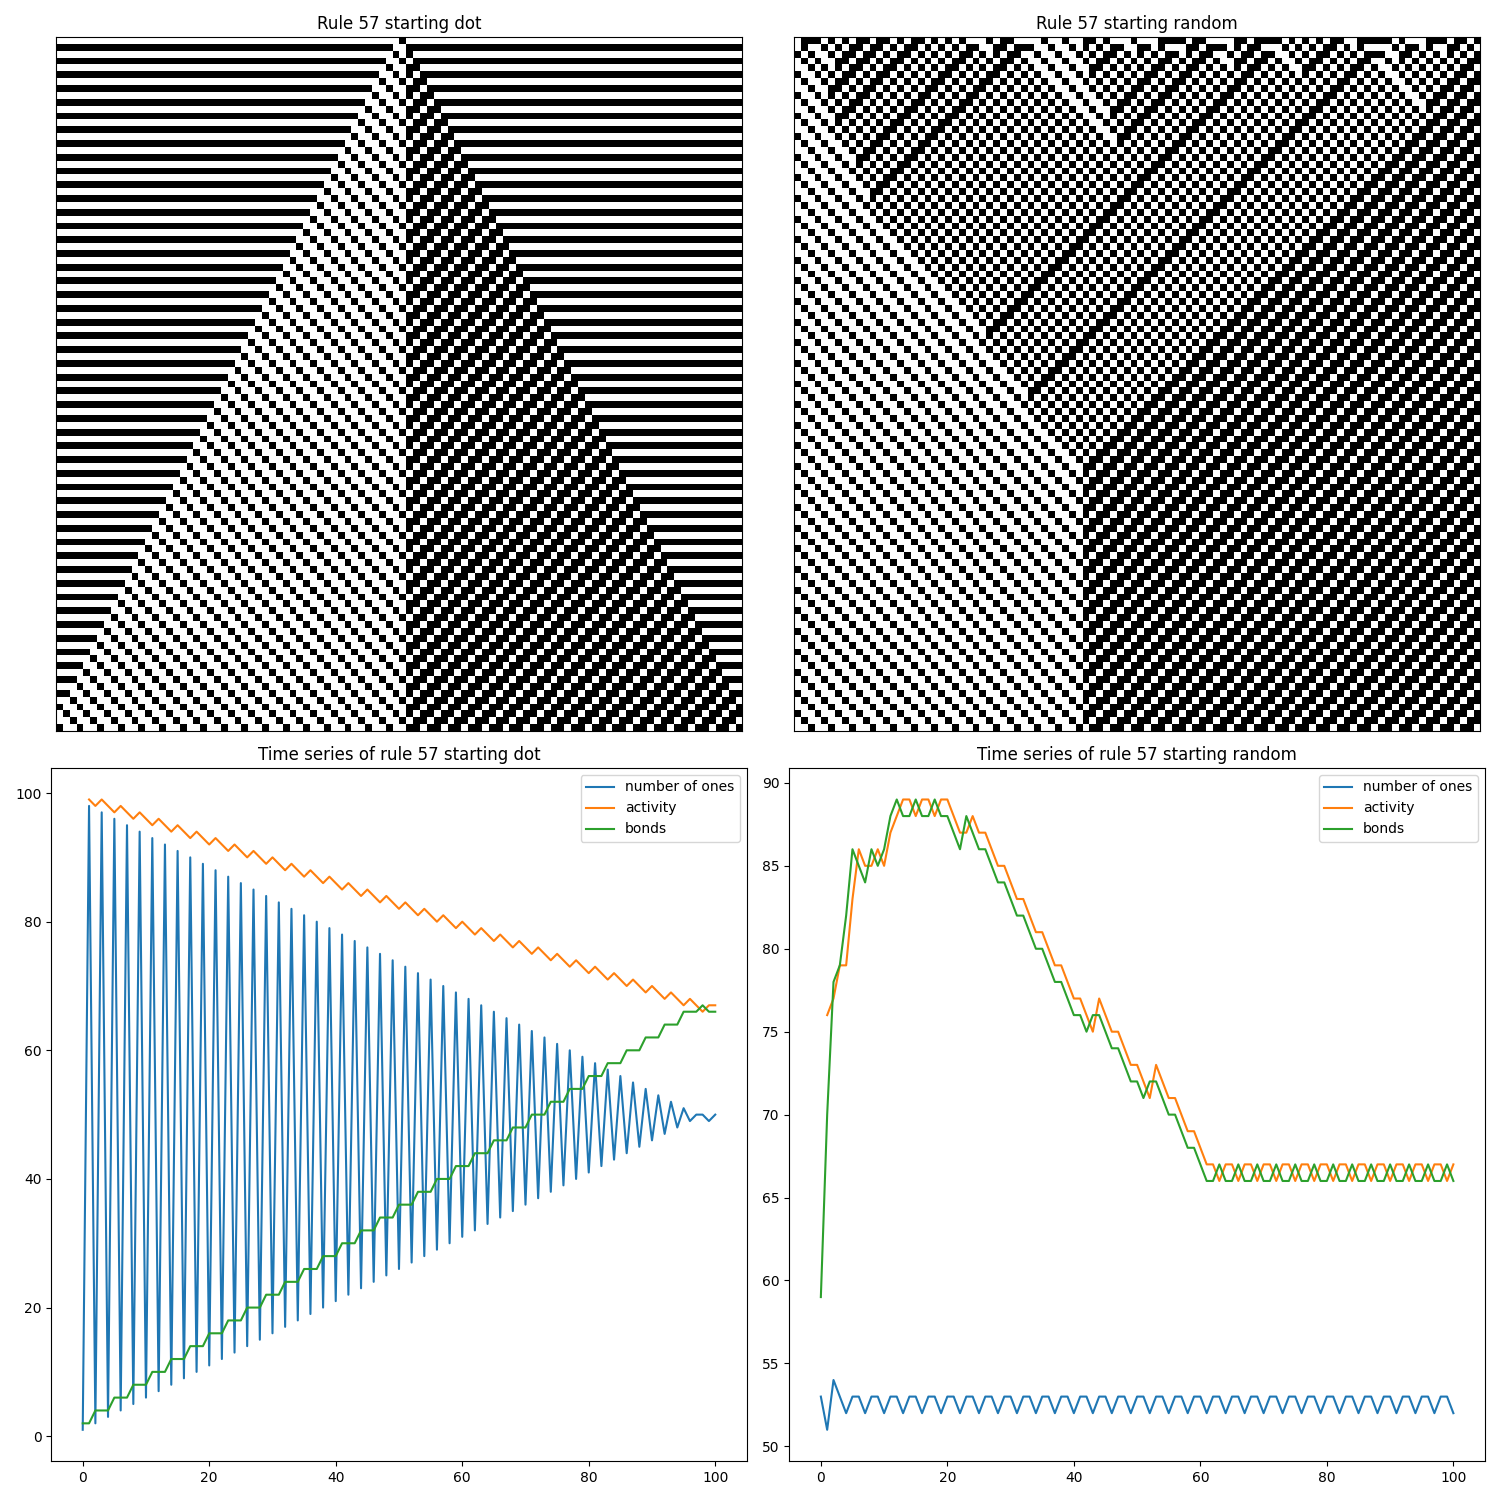
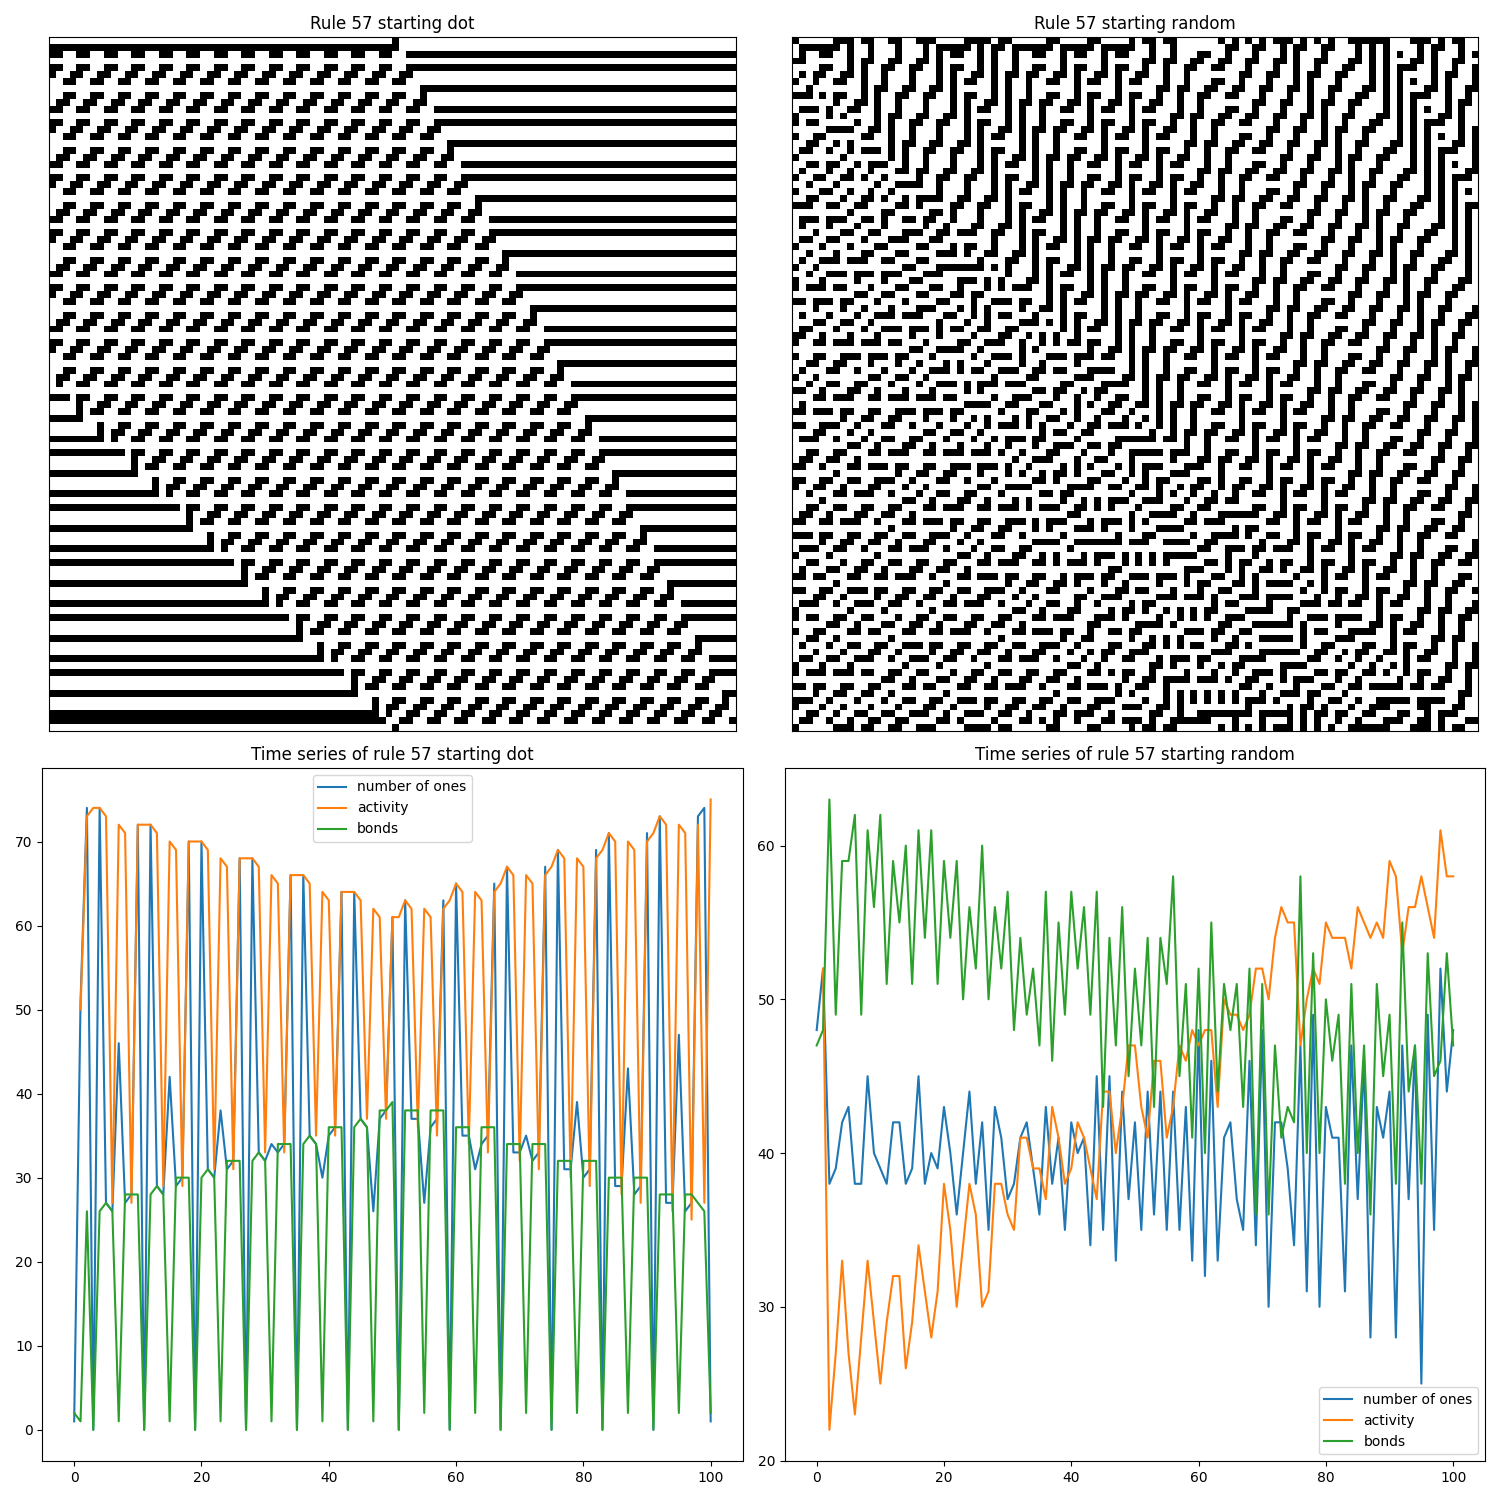
whats going on

diff --git a/projects/agent_based_modelling/assignment_6/main.py b/projects/agent_based_modelling/assignment_6/main.py
@@ -2,37 +2,36 @@ from itertools import product
 from multiprocessing import Pool
 
 from matplotlib import pyplot as plt
-import networkx as nx
 import numpy as np
 
 from projects.agent_based_modelling.assignment_6.model import Model, Params
 from projects.agent_based_modelling.assignment_6.runge_kutta import runge_kutta_4
+from projects.agent_based_modelling.assignment_6.graphs import lattice_with_diagonals
 
 
-GRAPH_SIZES = [100]
-MEAN_DEGREES = [8]
+GRAPH_SIZES = [(10, 10)]
 INITIAL_ADOPTIONS = [0, 8]
 PARAMS = [Params(innovation=innovation, imitation=imitation) for innovation, imitation in product([0, 0.01], [0.25, 0.5])]
 
 REWIRING_PROBABILITIES = [0.3, 0.6, 0.9]
-TIME_TO_STABILISE_RUNS = 10
+TIME_TO_STABILISE_RUNS = 100
 
 
 def plot_evolutions():
-    setups = list(product(PARAMS, INITIAL_ADOPTIONS, GRAPH_SIZES, MEAN_DEGREES))
+    setups = list(product(PARAMS, INITIAL_ADOPTIONS, GRAPH_SIZES))
     fig, axs = plt.subplots(len(setups), 1, figsize=(10, 6*len(setups)), layout="tight")
 
-    for ax, (params, initial_adoptions, graph_size, mean_degree) in zip(axs, setups):
+    for ax, (params, initial_adoptions, (m, n)) in zip(axs, setups):
         for beta in REWIRING_PROBABILITIES:
             ax.plot(
                 Model(
                     params=params,
-                    graph=nx.watts_strogatz_graph(graph_size, mean_degree, beta),
+                    graph=lattice_with_diagonals(m, n, beta),
                     initial_adoptions=initial_adoptions,
                 ).run().adoption_history,
                 label=f"{beta=}",
             )
-            ax.set_title(f"{params=}, {initial_adoptions=}, {graph_size=}, {mean_degree=}")
+            ax.set_title(f"{params=}, {initial_adoptions=}, {m=}, {n=}")
         ax.legend()
         ax.set_ylim(-0.05, 1.05)
         ax.grid()
@@ -40,29 +39,29 @@ def plot_evolutions():
     plt.show()
 
 
-def calculate_steps(args: tuple[Params, int, int, int, float]) -> int:
-    params, initial_adoptions, graph_size, mean_degree, beta = args
+def calculate_steps(args: tuple[Params, int, tuple[int, int], float]) -> int:
+    params, initial_adoptions, (m, n), beta = args
     return Model(
         params=params,
-        graph=nx.watts_strogatz_graph(graph_size, mean_degree, beta),
+        graph=lattice_with_diagonals(m, n, beta),
         initial_adoptions=initial_adoptions,
     ).run().current_step
 
 
 def plot_time_to_stabilise():
-    setups = list(product(PARAMS, INITIAL_ADOPTIONS, GRAPH_SIZES, MEAN_DEGREES))
+    setups = list(product(PARAMS, INITIAL_ADOPTIONS, GRAPH_SIZES))
     fig, ax = plt.subplots(1, 1, figsize=(30, 8), layout="tight")
     with Pool() as pool:
-        for params, initial_adoptions, graph_size, mean_degree in setups:
-            print(f"{params=}, {initial_adoptions=}, {graph_size=}, {mean_degree=}")
+        for params, initial_adoptions, graph_size in setups:
+            print(f"{params=}, {initial_adoptions=}, {graph_size=}")
             beta = np.linspace(0, 1, 100)
             time_to_stabilise = np.array(
                 [
-                    np.array(pool.map(calculate_steps, [(params, initial_adoptions, graph_size, mean_degree, b)] * TIME_TO_STABILISE_RUNS)).mean()
+                    np.array(pool.map(calculate_steps, [(params, initial_adoptions, graph_size, b)] * TIME_TO_STABILISE_RUNS)).mean()
                     for b in beta
                 ]
             )
-            ax.plot(beta, time_to_stabilise, label=f"{params=}, {initial_adoptions=}, {graph_size=}, {mean_degree=}")
+            ax.plot(beta, time_to_stabilise, label=f"{params=}, {initial_adoptions=}, {graph_size=}")
 
     ax.legend(bbox_to_anchor=(1.04, 1), loc="upper left")
     plt.show()
@@ -73,20 +72,35 @@ def compare_graph_and_ode():
         innovation=0.01,
         imitation=0.35,
     )
-    model = Model(
-        params=params,
-        graph=nx.watts_strogatz_graph(100, 8, 0.3),
-        initial_adoptions=0,
-    ).run()
+    simulated_raw = [
+        Model(
+            params=params,
+            graph=lattice_with_diagonals(10, 10, 0.2),
+            initial_adoptions=0,
+        ).run().adoption_history
+        for _ in range(10)
+    ]
+    max_run_length = max(len(run) for run in simulated_raw)
+    simulated = np.array(
+        [
+            np.append(run, np.ones(max_run_length - len(run)))
+            for run in simulated_raw
+        ]
+    ).mean(axis=0)
 
     def ode(_: float, y: float) -> float:
         return (1 - y)*(params.innovation + params.imitation*y)
 
-    x = np.linspace(start=0, stop=30, num=model.current_step)
-    y = runge_kutta_4(ode, 0, x)
+    def exact(_x: np.ndarray, p: float, q: float) -> float:
+        return p*(np.exp((p+q)*_x) - 1)/(p*np.exp((p+q)*_x) + q)
 
-    plt.plot(y)
-    plt.plot(model.adoption_history)
+    x = np.linspace(start=0, stop=50, num=len(simulated))
+    y_rk4 = runge_kutta_4(ode, 0, x)
+    y_exact = exact(x, params.innovation, params.imitation)
+
+    plt.plot(y_rk4)
+    plt.plot(y_exact)
+    plt.plot(simulated)
     plt.show()
 
 

diff --git a/projects/agent_based_modelling/assignment_6/model.py b/projects/agent_based_modelling/assignment_6/model.py
@@ -2,11 +2,11 @@ from dataclasses import dataclass, field
 from random import sample, uniform, choice
 from typing import Self
 
-from line_profiler import profile
 import numpy as np
 import networkx as nx
 
 
+STATE = "state"
 NOT_ADOPTED = 0
 ADOPTED = 1
 
@@ -23,14 +23,13 @@ class Model:
     graph: nx.Graph
     initial_adoptions: int
     current_step: int = 0
-    states: dict[int, int] = field(default_factory=dict)
     adoption_history: np.ndarray = field(default_factory=lambda: np.array([]))
 
     def __post_init__(self):
-        self.states = {n: NOT_ADOPTED for n in self.graph}
+        nx.set_node_attributes(self.graph, NOT_ADOPTED, STATE)  # type: ignore
 
         for node in sample(list(self.graph), self.initial_adoptions):
-            self.states[node] = ADOPTED
+            self.graph.nodes[node][STATE] = ADOPTED
 
         self.save_adoption()
 
@@ -46,25 +45,27 @@ class Model:
 
     def step(self):
         self.current_step += 1
-        # TODO: does "select an agent i randomly" allow for duplicates? Current implementation says NO
-        for node in sample(list(self.graph), len(self.graph)):
-            if self.states[node] == ADOPTED:
+        for _ in range(len(self.graph)):
+            node = choice(list(self.graph.nodes))
+            if self.is_adopted(node):
                 continue
 
             if uniform(0, 1) < self.params.innovation + self.params.imitation * self.fraction_of_adopted_neighbours(node):
-                self.states[node] = ADOPTED
+                self.set_adopted(node)
 
         self.save_adoption()
 
-    @profile
-    def fraction_of_adopted_neighbours(self, node: int) -> float:
+    def fraction_of_adopted_neighbours(self, node) -> float:
         return len([1 for neighbor in self.graph[node] if self.is_adopted(neighbor)]) / len(self.graph)
 
     def fraction_of_adopted(self) -> float:
         return len([1 for node in self.graph if self.is_adopted(node)]) / len(self.graph)
 
-    def is_adopted(self, node: int) -> bool:
-        return self.states[node] == ADOPTED
+    def set_adopted(self, node):
+        self.graph.nodes[node][STATE] = ADOPTED
+
+    def is_adopted(self, node) -> bool:
+        return self.graph.nodes[node][STATE] == ADOPTED
 
     def save_adoption(self):
         self.adoption_history = np.append(self.adoption_history, self.fraction_of_adopted())

diff --git a/projects/agent_based_modelling/assignment_5/automaton.py b/projects/agent_based_modelling/assignment_5/automaton.py
@@ -1,6 +1,6 @@
 from dataclasses import dataclass, field
 from enum import Enum
-from functools import cached_property
+from functools import cached_property, reduce
 
 import numpy as np
 from matplotlib import pyplot as plt
@@ -33,16 +33,13 @@ class Automaton:
                 self._arr = np.random.randint(low=0, high=2, size=self.size)
 
         self._arr = self._arr.astype(int)
-        self._arr = np.concatenate([np.array([0] * self.run_length), self._arr, np.array([0] * self.run_length)])
-        self._arr_history = np.array([self._arr])
-
-        for _ in range(self.run_length):
-            self._arr = self.rule.step_function(self._arr)
-            self._arr_history = np.vstack([self._arr_history, self._arr])
+        self._arr = np.array([np.concatenate([np.array([0] * self.run_length), self._arr, np.array([0] * self.run_length)])]).astype(int)
+        self._arr = reduce(lambda a, _: np.vstack([self._arr[-1, :], self.rule.step_function(a)]), [0]*self.run_length, self._arr)
 
     @cached_property
     def arr_history(self) -> np.ndarray:
-        return self._arr_history[:, self.run_length : -self.run_length]
+        print(self._arr)
+        return self._arr[:, self.run_length : -self.run_length]
 
     def plot_evolution(self, ax: Axes):
         ax.set_aspect("equal", adjustable="box")

diff --git a/projects/agent_based_modelling/assignment_6/graphs.py b/projects/agent_based_modelling/assignment_6/graphs.py
@@ -1,0 +1,33 @@
+from random import choice, uniform
+from itertools import product
+
+import networkx as nx
+
+
+ONE_SIDE_ADJ = [
+    (1, 0),
+    (1, 1),
+    (0, 1),
+    (-1, 1),
+]
+
+
+def lattice_with_diagonals(m: int, n: int, beta: float) -> nx.Graph:
+    def add(left: tuple[int, int], right: tuple[int, int]):
+        return (left[0] + right[0]) % m, (left[1] + right[1]) % n
+
+    g = nx.Graph()
+    all_nodes = set(product(range(m), range(n)))
+    g.add_nodes_from(all_nodes)
+
+    for node, adj in product(g, ONE_SIDE_ADJ):
+        g.add_edge(node, add(node, adj))
+
+    for node, adj in product(g, ONE_SIDE_ADJ):
+        if uniform(0, 1) < beta:
+            candidates = all_nodes - set(g.neighbors(node)) - {node}
+            target = choice(list(candidates))
+            g.remove_edge(node, add(node, adj))
+            g.add_edge(node, target)
+
+    return g

diff --git a/projects/agent_based_modelling/assignment_5/main.py b/projects/agent_based_modelling/assignment_5/main.py
@@ -49,7 +49,7 @@ def plot_graphs(rules: Iterable[int] = CUSTOM_STEP_FUNCTIONS):
         g = Rule(number=rule_number).configuration_space_diagram
         pos = nx.spring_layout(g, k=0.5)
 
-        fig, ax = plt.subplots(layout="tight")
+        fig, ax = plt.subplots(layout="tight", figsize=(20, 20))
         ax.set_title(f"Configuration space diagram of rule {rule_number}")
         nx.draw_networkx(
             g,
@@ -65,5 +65,5 @@ def plot_graphs(rules: Iterable[int] = CUSTOM_STEP_FUNCTIONS):
 
 
 if __name__ == "__main__":
-    # plot_rules()
+    plot_rules()
     plot_graphs()
